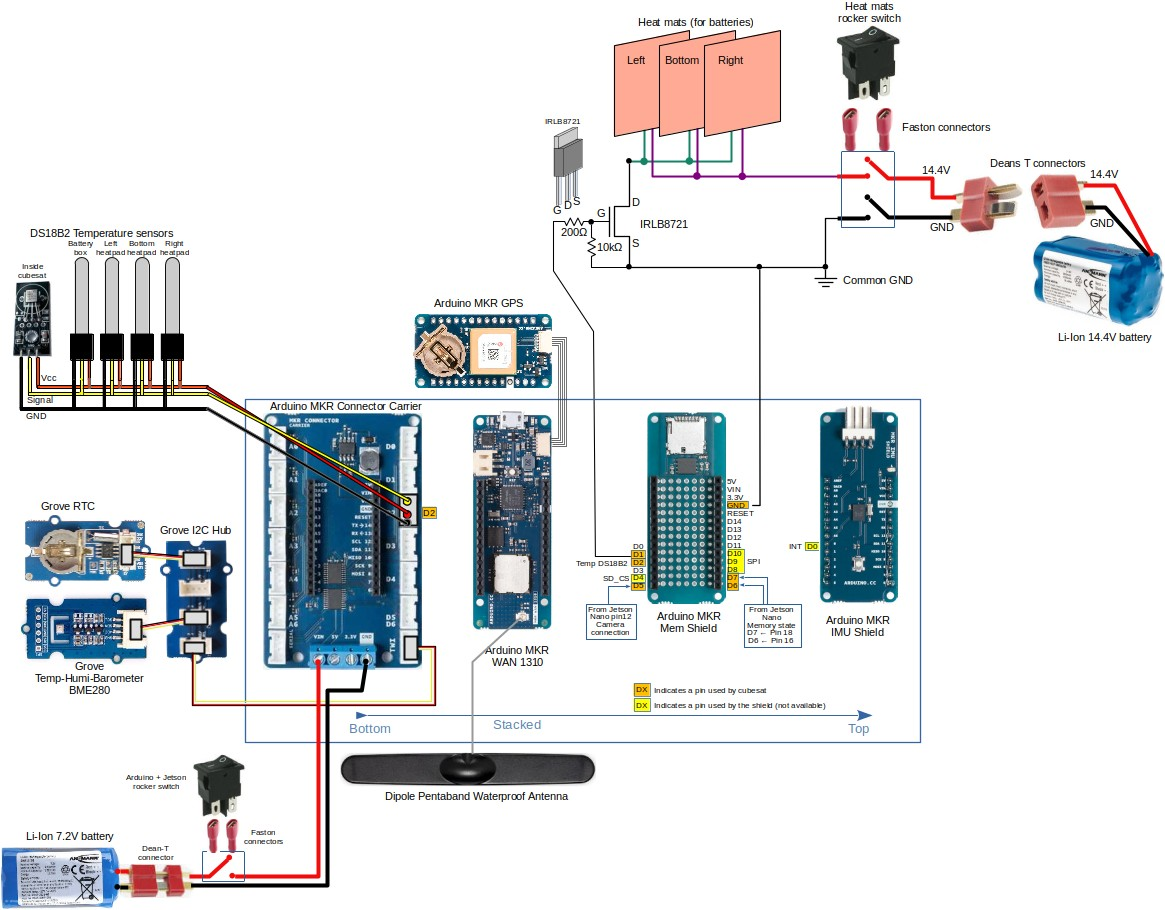
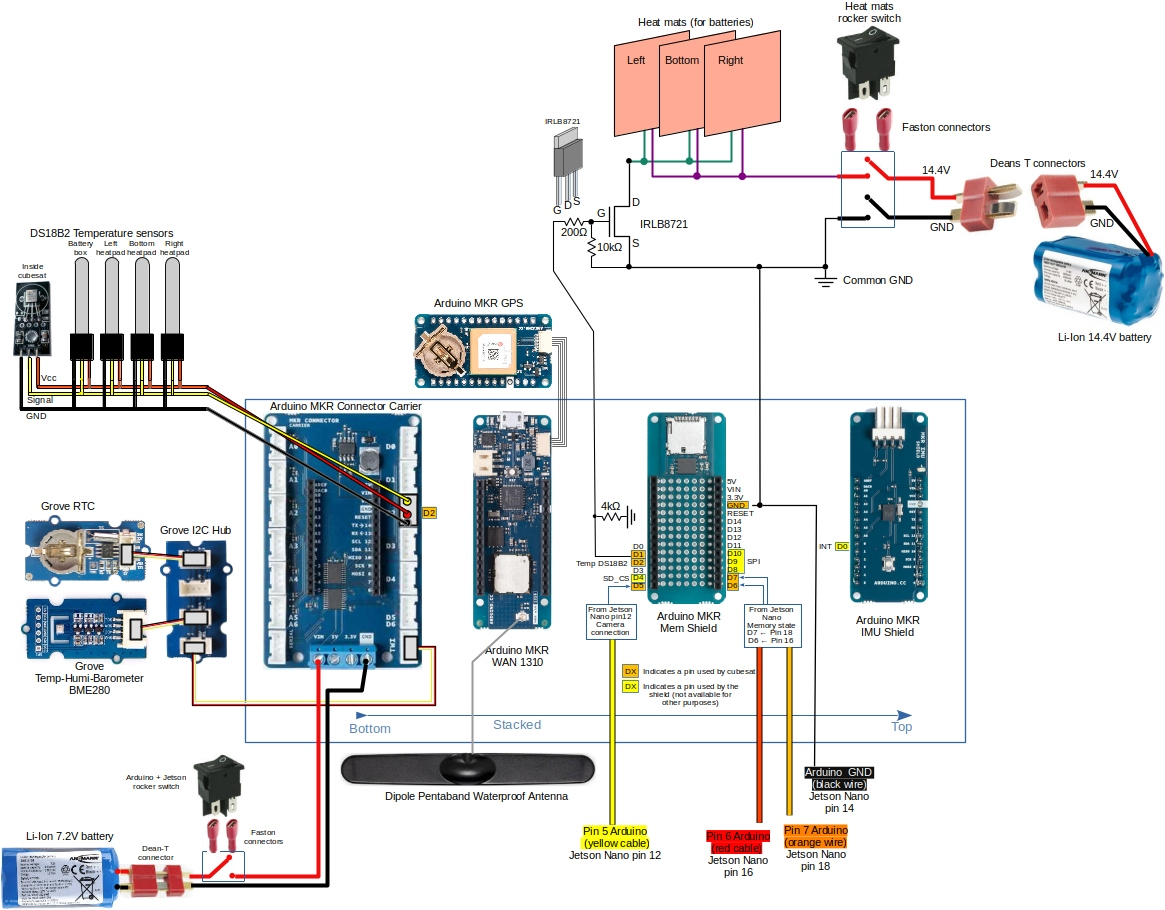
Organize readme + doc connections to Jetson Nano

diff --git a/README.md b/README.md
@@ -8,9 +8,9 @@ This project describes the Bentayga 3U cubesat, developed by [IUMA](https://www.
 
 The project is composed by three main parts:
 
-- Structure made of 10x10 profiles, 3D printed parts and milled FR4 fiberglass
-- Multispectral image acquisition, composed by a Jetson Nano, 4 cameras with filters
-- Control and Flight manager, composed by an Arduino MKR WAN 1310, with sensors such as GPS, temperature, humidity, barometer, RTC, IMU, and also controls the temperature of the batteries by activating heat pads.
+- Structure made of 10x10 profiles, 3D printed parts and CNC milled FR4 fiberglass
+- [Multispectral image acquisition](#Multispectral-image-acquisition), composed by a Jetson Nano, 4 cameras with filters
+- [Control and Flight manager](#Flight-manager), composed by an Arduino MKR WAN 1310, with sensors such as GPS, temperature, humidity, barometer, RTC, IMU, and also controls the temperature of the batteries by activating heat pads.
 
 ---
 
@@ -21,55 +21,27 @@ The project is composed by three main parts:
 
 ---
 
+## Multispectral image acquisition
+
+![Jetson Nano connections](./imgs/jetson_schematic_sm.jpg)
+
+[Larger image of Jetson Nano connections](./imgs/jetson_schematic.jpg)
+
+More information and source code is in [Camera board](./CameraBoard)
+
+---
+
 ## Flight manager
 
-The Flight Manager is responsible for gathering flight data from the IMU and barometric pressure sensor and transmitting it via LoRa to a ground station.
+The Flight Manager is responsible for gathering flight data from the IMU, sensors and transmitting it via LoRa to a ground station. It is also responsible of keeping batteries warm.
 
 ![Flight manager](./imgs/cubesat_schematic_sm.jpg)
 
 [Larger image of electronics schematic](./imgs/cubesat_schematic.jpg)
 
 
+More information and source code is in [Firmware](./Firmware)
 
-### Requirements
-
-This code requires the following libraries:
-- Wire.h
-- MS5x.h
-- MKRIMU.h
-- LoRa.h
-
-Using the Arduino Library manager, search and install the following packages:
-
-* BNO055 - Adafruit; and it dependencies.
-* BM280 - Adafruit; and it dependencies.
-* Groove RTC DS1307 - Speeed Studio
-* OneWire https://playground.arduino.cc/Learning/OneWire
-* Dallas Temperature: https://www.milesburton.com/w/index.php/Dallas_Temperature_Control_Librar
-
-### Setup
-
-The Flight Manager should be connected to an IMU and a barometric pressure sensor. The LoRa module should also be properly connected.
-
-Arduino Shields from bottom-up:
-- MKR connector: https://docs.arduino.cc/hardware/mkr-connector-carrier
-- MKR WAN 1310: https://docs.arduino.cc/hardware/mkr-wan-1310
-- MKR MEM SHIELD: https://docs.arduino.cc/hardware/mkr-mem-shield
-- MKR IMU SHIELD: https://docs.arduino.cc/hardware/mkr-imu-shield
-
-### Usage
-
-Upon startup, the Flight Manager will attempt to connect to the barometric pressure sensor. Once connected, it will continuously poll the sensor for data and transmit it via LoRa. Flight data is formatted into a byte array that includes start and stop bytes, as well as the following data:
-- Roll
-- Pitch
-- Heading
-- Temperature
-- Pressure
-- Sea level pressure
-- Altitude
-- Corrected altitude
-
-In addition to transmitting the data, the Flight Manager also prints it to the serial monitor. 
 
 ---
 

diff --git a/Firmware/readme.md b/Firmware/readme.md
@@ -1,4 +1,8 @@
-# Arduino code and sensors:
+# Flight manager:
+
+![Flight manager](../imgs/cubesat_schematic_sm.jpg)
+
+[Larger image of electronics schematic](../imgs/cubesat_schematic.jpg)
 
 The main stack of arduino boards is the following from bottom to top:
 
@@ -7,11 +11,56 @@ The main stack of arduino boards is the following from bottom to top:
 - MKR MEM SHIELD: https://docs.arduino.cc/hardware/mkr-mem-shield
 - MKR IMU SHIELD: https://docs.arduino.cc/hardware/mkr-imu-shield
 
-## Reference
+Then there are other boards connected by I2C
 
-Since there are 5 temperature sensors, 3 of them at the sides of the batteries. To know which sensor is each of them, the reference is taken from the following picture, considering I the left (Izquierda), and R the right (Derecha)
+- MKR GPS Shield: connect to the ESLOV connector https://docs.arduino.cc/hardware/mkr-gps-shield
+- Grove - Temp&Humi&Barometer Sensor (BME280) https://www.seeedstudio.com/Grove-BME280-Environmental-Sensor-Temperature-Humidity-Barometer.html
+- Grove - DS1307 RTC (Real Time Clock) for Arduino https://www.seeedstudio.com/Grove-RTC-DS1307.html
 
-![Bentayga Cubesat Reference](../imgs/cubesat_izq_dcha_sm.jpeg)
+The temperature sensors are connected directly by Onewire protocol:
+
+- DS18B2 temperature sensors [see below](#Temperature-sensors)
+
+Finally, the heatpads are connected through a board that includes the MOSFET to control them (we have soldered the board) [see below](#Temperature-control)
+
+
+### Requirements
+
+This code requires the following libraries:
+- Wire.h
+- MS5x.h
+- MKRIMU.h
+- LoRa.h
+
+Using the Arduino Library manager, search and install the following packages:
+
+* BNO055 - Adafruit; and it dependencies.
+* BM280 - Adafruit; and it dependencies.
+* Groove RTC DS1307 - Speeed Studio
+* OneWire https://playground.arduino.cc/Learning/OneWire
+* Dallas Temperature: https://www.milesburton.com/w/index.php/Dallas_Temperature_Control_Library
+
+
+### Setup
+
+The Flight Manager should be connected to an IMU and a barometric pressure sensor. The LoRa module should also be properly connected.
+
+### Usage
+
+Upon startup, the Flight Manager will attempt to connect to the barometric pressure sensor. Once connected, it will continuously poll the sensor for data and transmit it via LoRa. Flight data is formatted into a byte array that includes start and stop bytes, as well as the following data:
+- Roll
+- Pitch
+- Heading
+- Temperature
+- Pressure
+- Sea level pressure
+- Altitude
+- Corrected altitude
+
+In addition to transmitting the data, the Flight Manager also prints it to the serial monitor.
+
+-------------------
+
 
 ## [Temperature sensors](./temperature)
 
@@ -33,6 +82,13 @@ Sensors inside the battery box
 - Inside cubesat:   28,FF 10 4B 20 18 01 10 (PCB sensor with resistor)
 
 ---
+
+## Reference
+
+Since there are 5 temperature sensors, 3 of them at the sides of the batteries. To know which sensor is each of them, the reference is taken from the following picture, considering I the left (Izquierda), and R the right (Derecha)
+
+![Bentayga Cubesat Reference](../imgs/cubesat_izq_dcha_sm.jpeg)
+
 
 ### [Detect sensor ID](./temperature/detect_ds1820_tempsens_id/)
 
